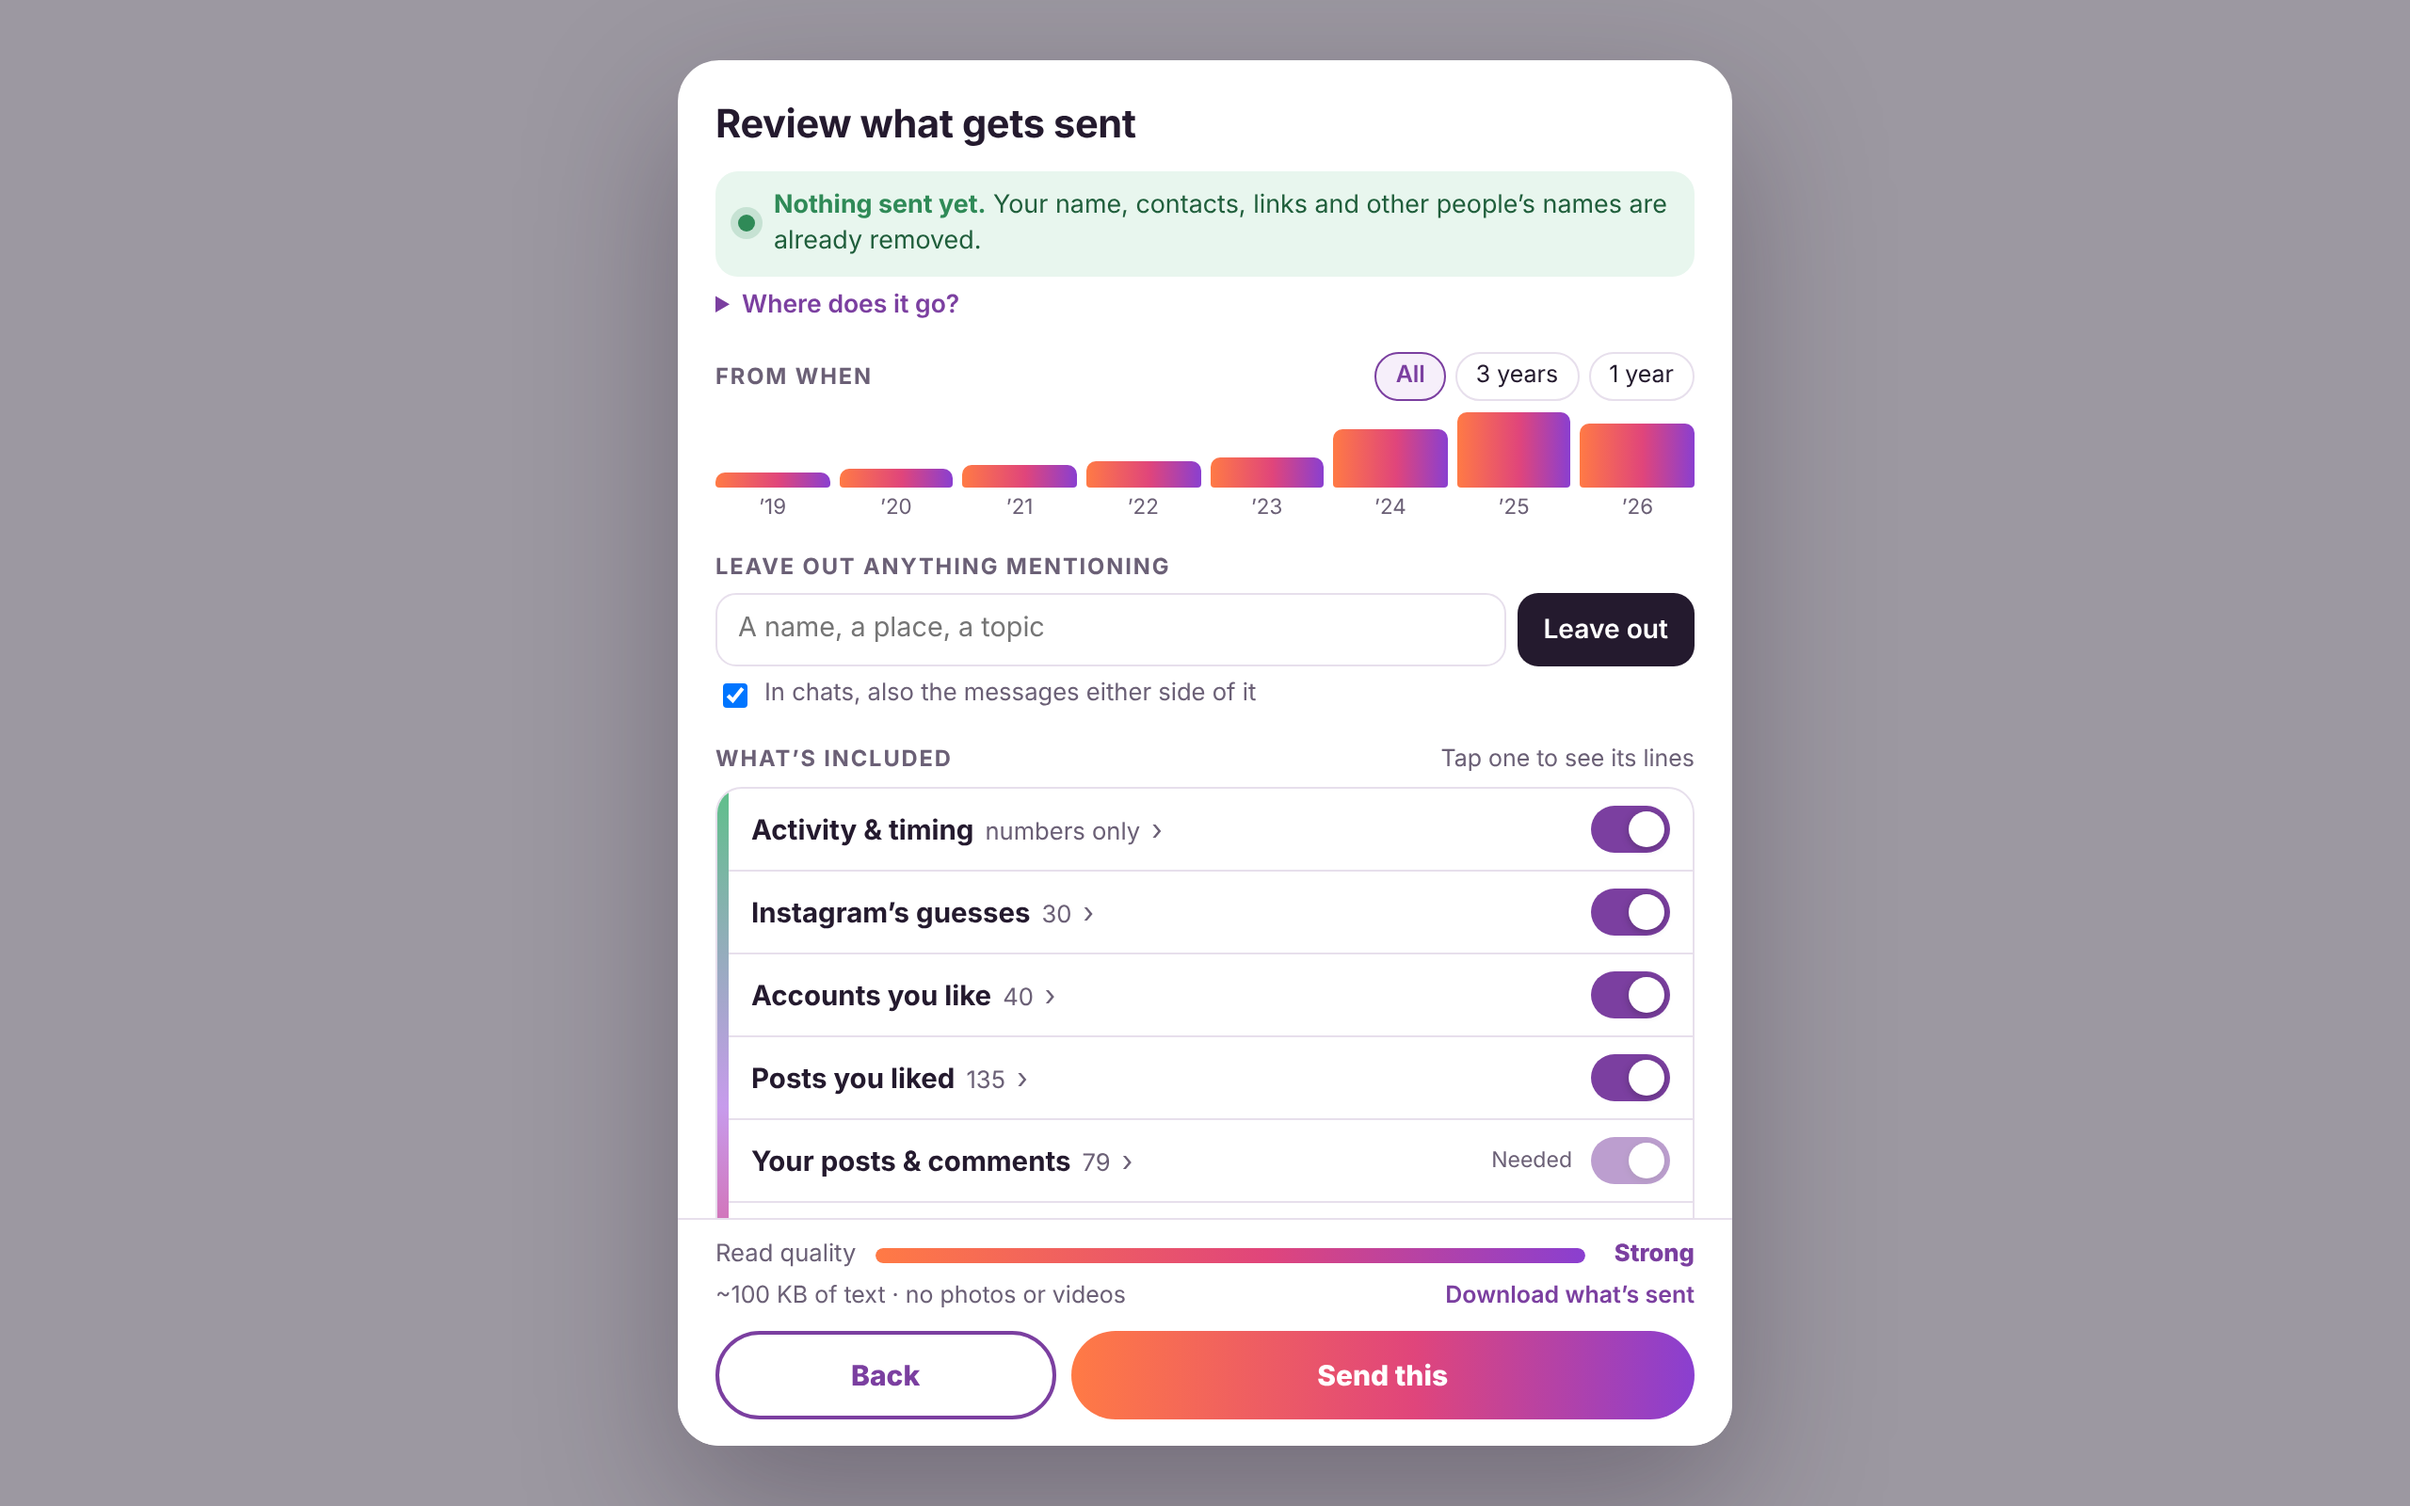
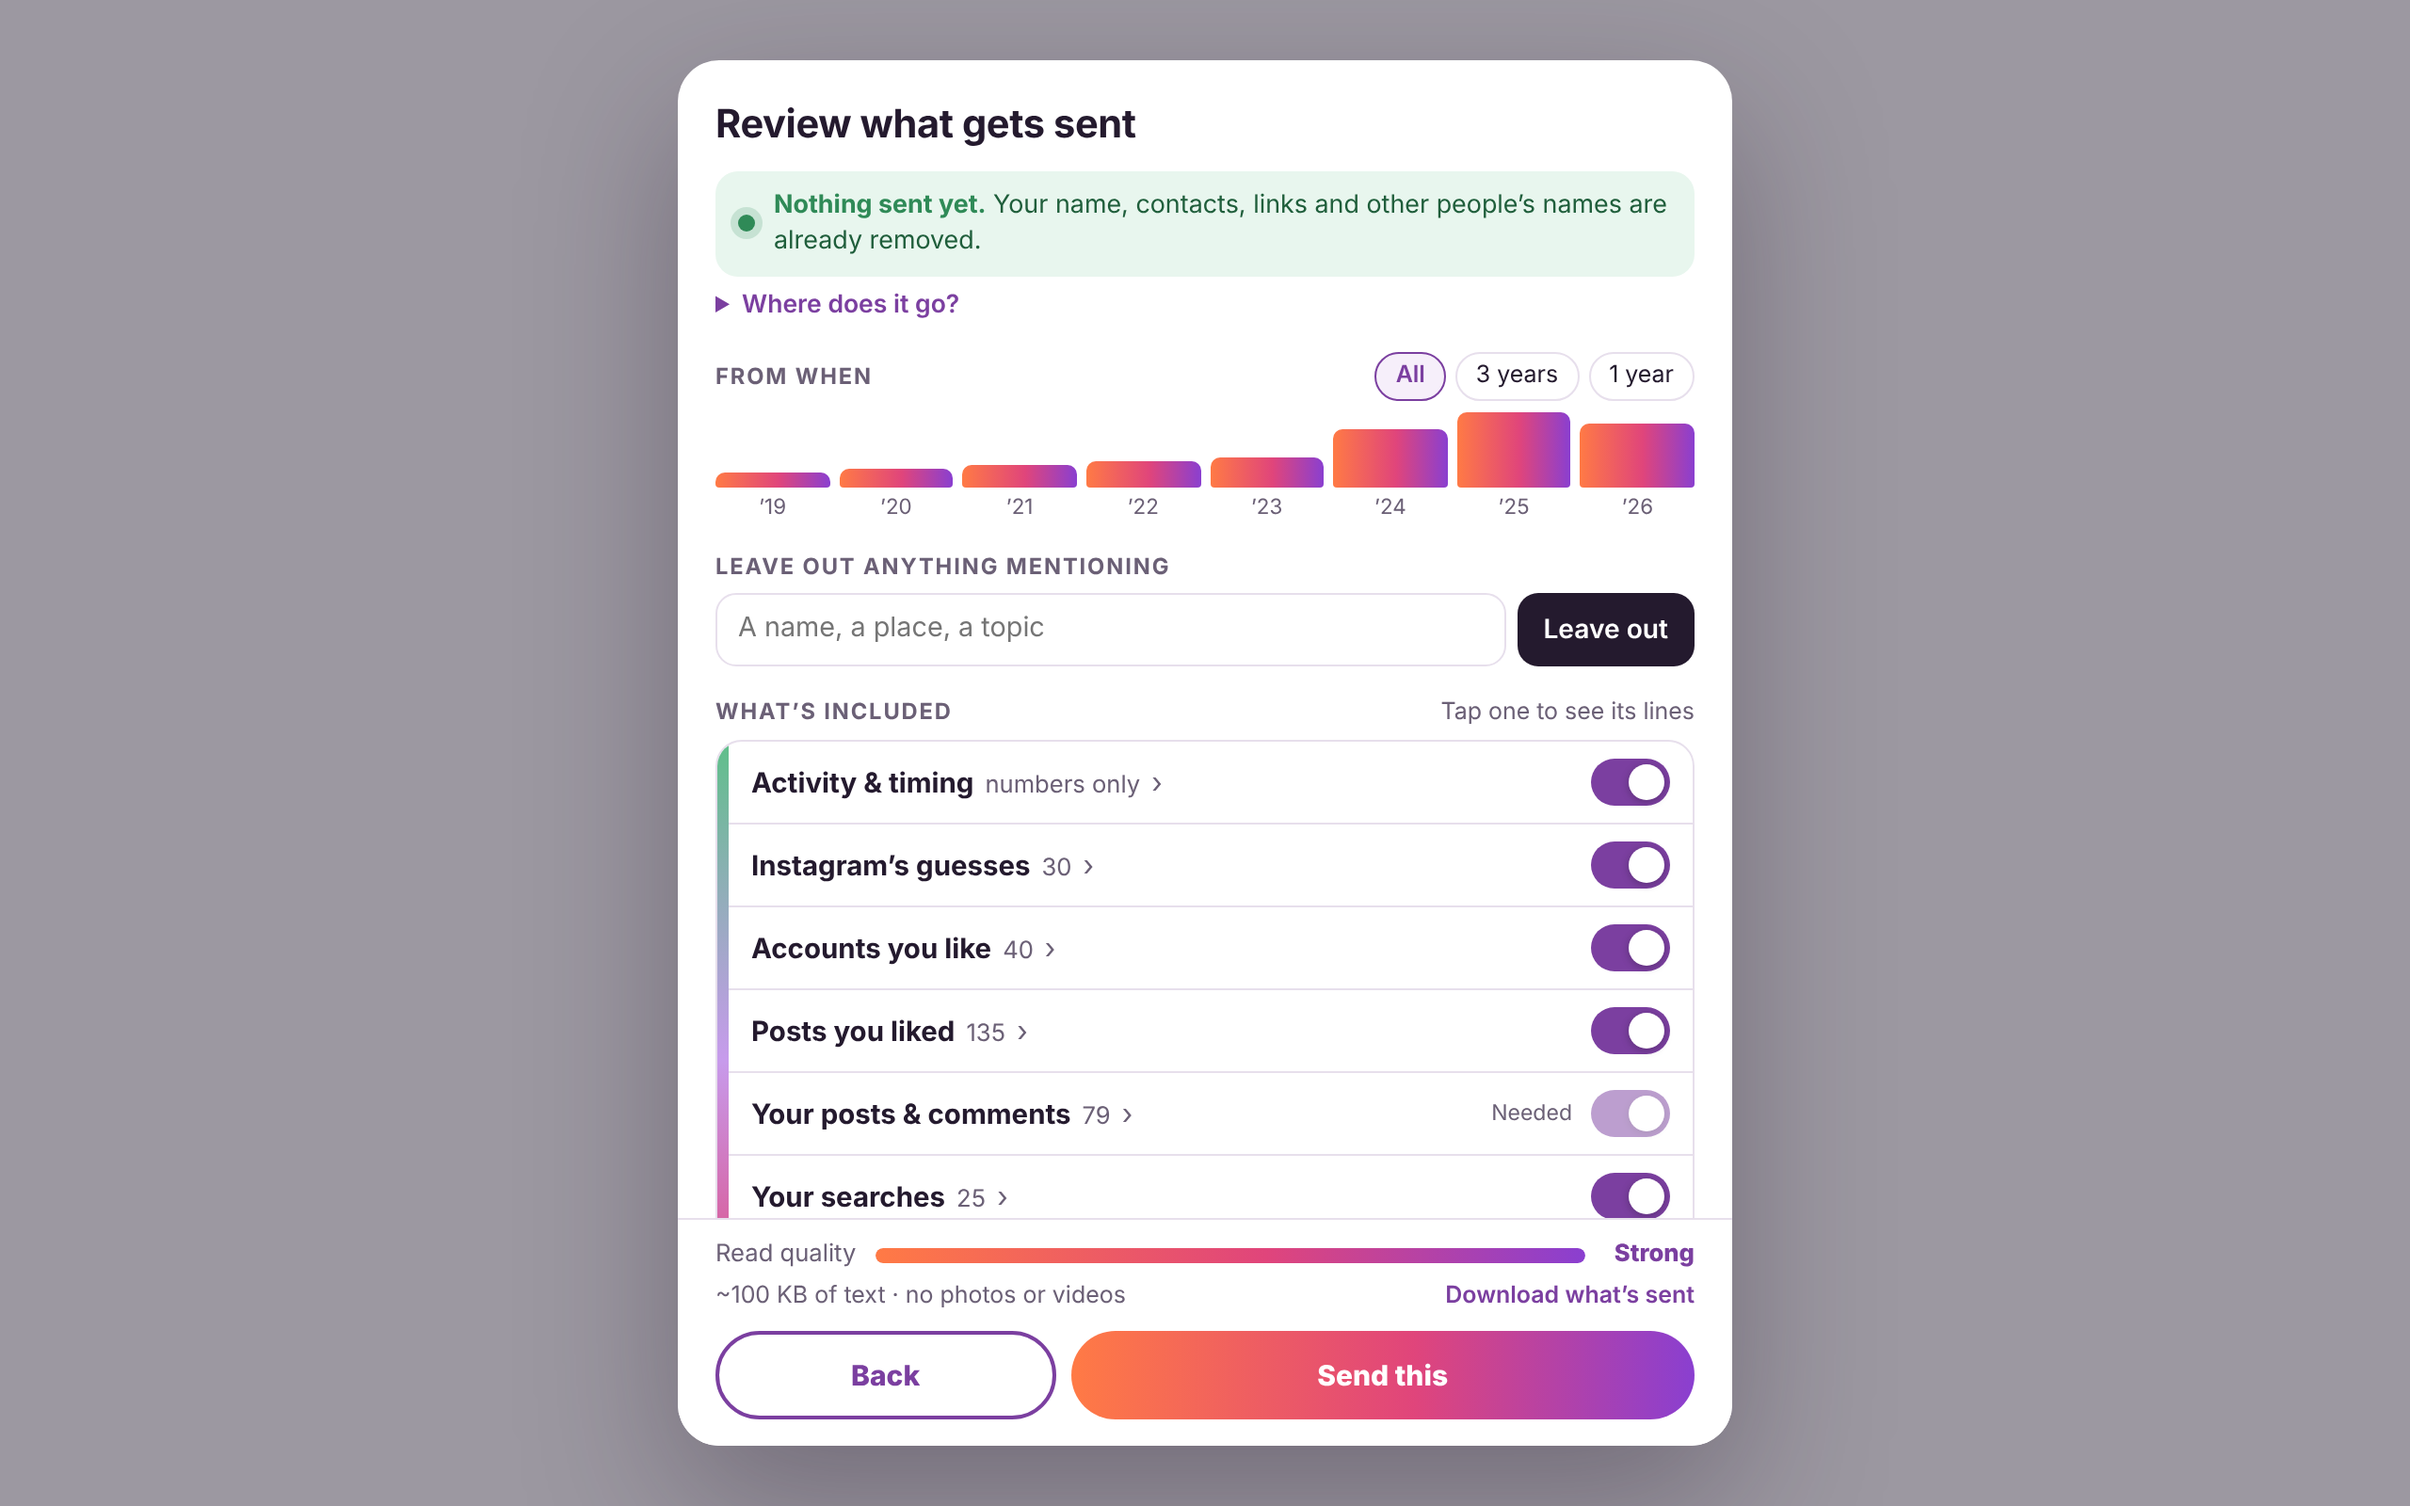
Review sheet mock-up: chats by their real names on this device, sent as [N1]; no "messages either side" option
Claude-Session: https://claude.ai/code/session_01JG1d877BBZBRM36WtZBvXb

Changed region(s): [[0.2812, 0.4375, 0.5, 0.8125], [0.5938, 0.4688, 0.7188, 0.8125]]

diff --git a/marketing/site-mockups/review-sheet.html b/marketing/site-mockups/review-sheet.html
@@ -43,7 +43,6 @@ details.where ul { margin: 4px 0 0; padding-left: 18px; }
 .kwchips:empty { display: none; }
 .kwchip { display: inline-flex; align-items: center; gap: 6px; background: #fde4ef; color: var(--pink); border-radius: 999px; padding: 3px 5px 3px 11px; font-size: .8rem; font-weight: 600; }
 .kwchip button { border: 0; background: rgba(194,64,122,.15); color: var(--pink); width: 18px; height: 18px; border-radius: 50%; cursor: pointer; line-height: 1; padding: 0; }
-.around { display: flex; align-items: center; gap: 6px; margin-top: 6px; font-size: .8rem; color: var(--ink-soft); }
 /* What's included: one list, least personal at the top, a scale down its left edge. */
 .list { position: relative; border: 1.5px solid var(--line); border-radius: 14px; padding-left: 6px; overflow: hidden; }
 .list::before { content: ''; position: absolute; left: 0; top: 0; bottom: 0; width: 6px; background: linear-gradient(#5fbf8a, #c79bec 55%, #e0457b); }
@@ -73,8 +72,9 @@ details.where ul { margin: 4px 0 0; padding-left: 18px; }
 .item.gone q { text-decoration: line-through; }
 .ph { color: var(--pink); font-weight: 700; }
 .chat { display: flex; align-items: center; gap: 10px; padding: 5px 2px; font-size: .84rem; }
-.chat .who { font-weight: 700; color: var(--pink); width: 40px; }
-.chat .n { flex: 1; color: var(--ink-soft); }
+.chat .who2 { flex: 1; min-width: 0; }
+.chat .who2 b { display: block; font-weight: 650; }
+.chat .who2 small { color: var(--ink-soft); font-size: .76rem; }
 .chat .sw { width: 36px; height: 21px; }
 .chat .sw::after { width: 15px; height: 15px; left: 18px; }
 .chat .sw[aria-checked="false"]::after { left: 3px; }
@@ -119,7 +119,6 @@ details.where ul { margin: 4px 0 0; padding-left: 18px; }
       <div class="sec-h"><h3>Leave out anything mentioning</h3><small id="kw-note"></small></div>
       <form class="kw" id="kw-form"><input id="kw-in" placeholder="A name, a place, a topic" aria-label="A word to leave out"><button>Leave out</button></form>
       <div class="kwchips" id="kw-chips"></div>
-      <label class="around"><input type="checkbox" id="around" checked> In chats, also the messages either side of it</label>
     </div>
 
     <div class="sec">
@@ -151,14 +150,14 @@ const TYPES = [
   { id: 'srch', t: 'Your searches', w: 10, by: [0, 0, 1, 2, 3, 6, 8, 5], bytes: 40,
     items: [['marathon training plan', 2025], ['anxiety tips', 2024], ['tokyo cafes', 2026]] },
   { id: 'dm', t: 'Direct messages', c: 'yours only', w: 25, by: [20, 25, 30, 35, 40, 50, 60, 40], bytes: 150,
-    chats: [['[N1]', 120], ['[N2]', 84], ['[N3]', 46], ['[N4]', 30], ['[N5]', 20]],
+    chats: [['[N1]', 120, 'Sarah Kim'], ['[N2]', 84, 'Mum'], ['[N3]', 46, 'Jordan Lee'], ['[N4]', 30, 'Book club (group)'], ['[N5]', 20, 'Alex Tan']],
     items: [['ok but honestly I think I need a break from all of it', 2025], ['[N2] you were right, as usual 😅', 2024], ['can’t wait for saturday!!', 2026]] },
 ];
-const state = { on: Object.fromEntries(TYPES.map(t => [t.id, true])), from: 2019, chats: {}, gone: new Set(), kws: [], open: new Set(), around: true };
+const state = { on: Object.fromEntries(TYPES.map(t => [t.id, true])), from: 2019, chats: {}, gone: new Set(), kws: [], open: new Set() };
 TYPES.find(t => t.id === 'dm').chats.forEach(([n]) => state.chats[n] = true);
 const $ = s => document.querySelector(s);
 const fmt = n => n.toLocaleString('en');
-const kwHits = () => state.kws.length * (state.around ? 7 : 3);   // in the mock-up, each word leaves out a few lines
+const kwHits = () => state.kws.length * 4;   // in the mock-up, each word leaves out a few lines
 
 function count(t) {
   let n = t.by.reduce((a, c, i) => a + (YEARS[i] >= state.from ? c : 0), 0);
@@ -171,9 +170,9 @@ function render() {
     const lines = t.items.map(([q, y], i) => { const key = t.id + ':' + i, gone = state.gone.has(key) || (y && y < state.from);
       return '<div class="item' + (gone ? ' gone' : '') + '"><q>' + q.replace(/\[(P|N)\d\]/g, m => '<span class="ph">' + m + '</span>') + '</q>' +
         (y ? '<span class="when">' + y + '</span>' : '') + '<button class="x" data-x="' + key + '" aria-label="' + (gone ? 'Put back' : 'Leave out') + '">' + (gone ? '↺' : '✕') + '</button></div>'; }).join('');
-    const chats = t.chats ? '<div class="note">Each chat on its own. Only your messages; theirs are never sent.</div>' + t.chats.map(([c, k]) =>
-      '<div class="chat"><span class="who">' + c + '</span><span class="n">' + k + ' messages</span><button class="sw" role="switch" data-chat="' + c +
-      '" aria-checked="' + state.chats[c] + '" aria-label="Chat with ' + c + '"' + (on ? '' : ' disabled') + '></button></div>').join('') : '';
+    const chats = t.chats ? '<div class="note">Names show only on this device. Only your messages are sent, and the name goes as a number.</div>' + t.chats.map(([c, k, real]) =>
+      '<div class="chat"><span class="who2"><b>' + real + '</b><small>' + k + ' messages · sent as <span class="ph">' + c + '</span></small></span><button class="sw" role="switch" data-chat="' + c +
+      '" aria-checked="' + state.chats[c] + '" aria-label="Chat with ' + real + '"' + (on ? '' : ' disabled') + '></button></div>').join('') : '';
     const sub = t.c ? t.c : fmt(n);
     return '<div class="row' + (on ? '' : ' off') + (open ? ' open' : '') + '"><div class="row-main">' +
       '<button class="name" data-peek="' + t.id + '"><b>' + t.t + '</b><span>' + (t.chats && on ? fmt(n) + ', ' : '') + sub + '</span></button>' +
@@ -207,7 +206,6 @@ document.addEventListener('click', e => {
   else return;
   render();
 });
-$('#around').addEventListener('change', e => { state.around = e.target.checked; render(); });
 $('#kw-form').addEventListener('submit', e => { e.preventDefault(); const v = $('#kw-in').value.trim(); if (v && !state.kws.includes(v)) state.kws.push(v); $('#kw-in').value = ''; render(); });
 // ?state=edited: choices made (from 2024, "Sam" left out, chat [N3] off, a line removed, the messages opened).
 if (/state=edited/.test(location.search)) { state.from = 2024; state.kws = ['Sam']; state.chats['[N3]'] = false; state.open.add('dm'); state.gone.add('dm:0'); }
